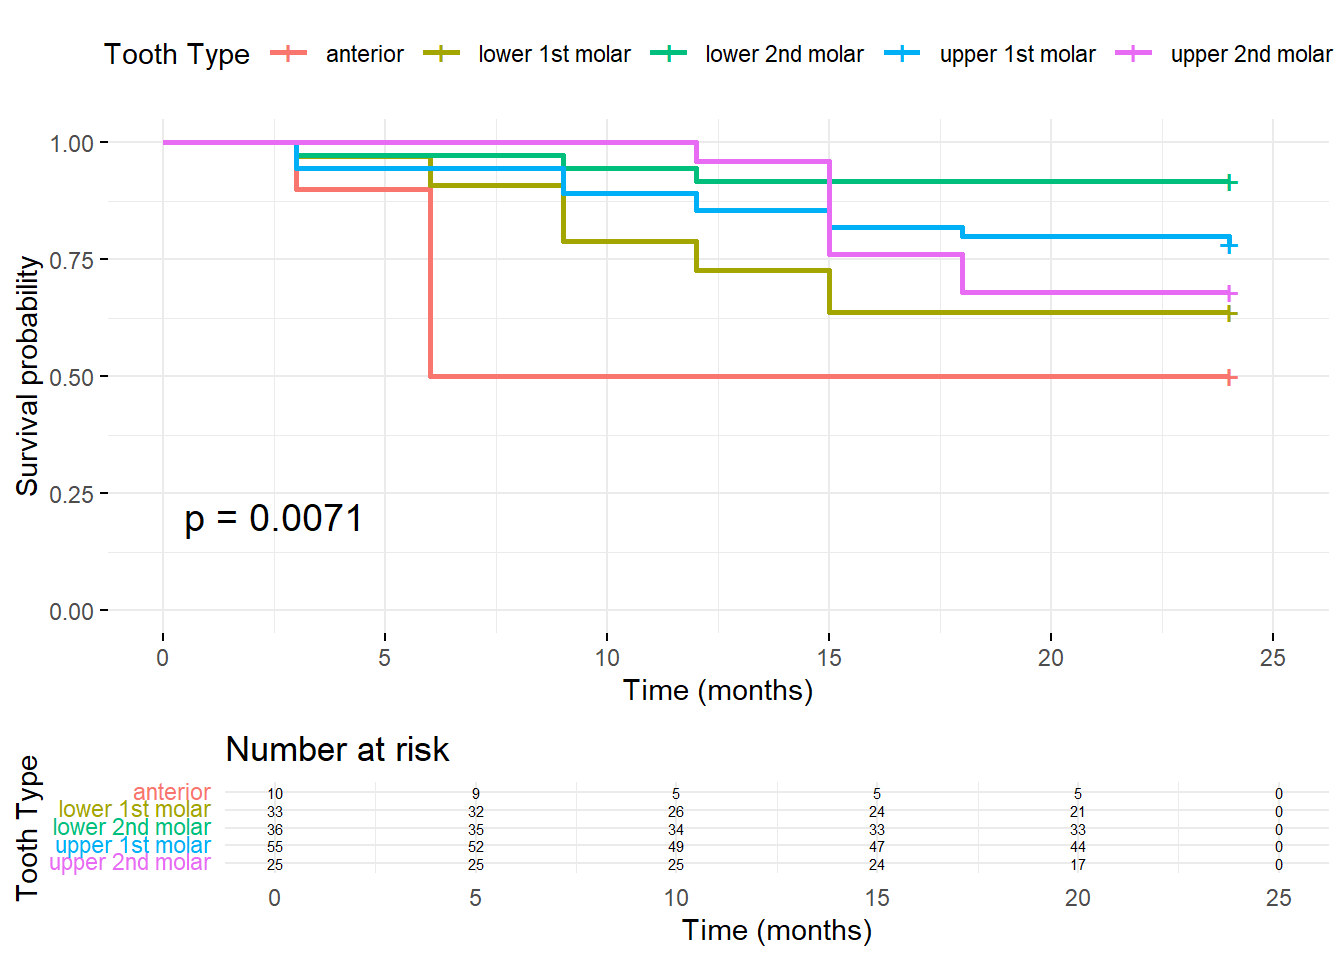
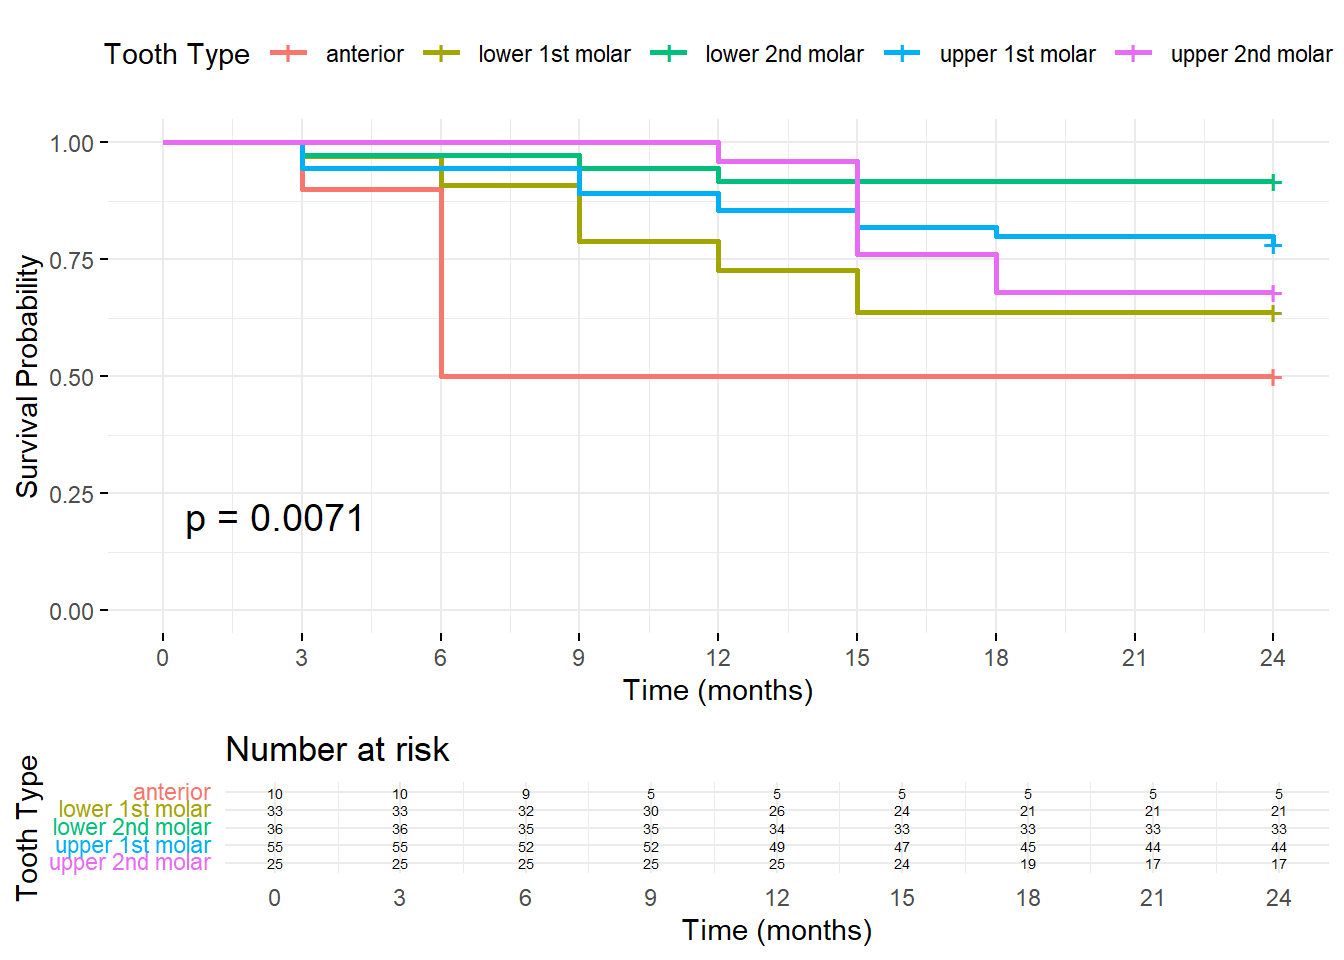
5/16/2025

diff --git a/docs/2025_0401_Matina.html b/docs/2025_0401_Matina.html
@@ -551,15 +551,15 @@ project makes it easier to run your code on other machines.</p>
 <div class="panel panel-default">
 <div class="panel-heading">
 <p class="panel-title">
-<a data-toggle="collapse" data-parent="#workflowr-checks" href="#strongRepositoryversionstrongahrefhttpsgithubcomhan16Collaborationstreef9ad2253412e91de654d370a24df924c286592f4targetblankf9ad225a">
+<a data-toggle="collapse" data-parent="#workflowr-checks" href="#strongRepositoryversionstrongahrefhttpsgithubcomhan16Collaborationstreee238306a1a1b560db2b302ea19c470e7430e14a0targetblanke238306a">
 <span class="glyphicon glyphicon-ok text-success"
 aria-hidden="true"></span> <strong>Repository version:</strong>
-<a href="https://github.com/han16/Collaborations/tree/f9ad2253412e91de654d370a24df924c286592f4" target="_blank">f9ad225</a>
+<a href="https://github.com/han16/Collaborations/tree/e238306a1a1b560db2b302ea19c470e7430e14a0" target="_blank">e238306</a>
 </a>
 </p>
 </div>
 <div
[2 lines of base64/hex data omitted]
 class="panel-collapse collapse">
 <div class="panel-body">
 <p>
@@ -569,7 +569,7 @@ reproducibility.
 </p>
 <p>
 The results in this page were generated with repository version
-<a href="https://github.com/han16/Collaborations/tree/f9ad2253412e91de654d370a24df924c286592f4" target="_blank">f9ad225</a>.
+<a href="https://github.com/han16/Collaborations/tree/e238306a1a1b560db2b302ea19c470e7430e14a0" target="_blank">e238306</a>.
 See the <em>Past versions</em> tab to see a history of the changes made
 to the R Markdown and HTML files.
 </p>
@@ -635,6 +635,40 @@ Message
 </tr>
 </thead>
 <tbody>
+<tr>
+<td>
+Rmd
+</td>
+<td>
+<a href="https://github.com/han16/Collaborations/blob/e238306a1a1b560db2b302ea19c470e7430e14a0/analysis/2025_0401_Matina.Rmd" target="_blank">e238306</a>
+</td>
+<td>
+han
+</td>
+<td>
+2025-05-16
+</td>
+<td>
+5/16/2025
+</td>
+</tr>
+<tr>
+<td>
+html
+</td>
+<td>
+<a href="https://rawcdn.githack.com/han16/Collaborations/e238306a1a1b560db2b302ea19c470e7430e14a0/docs/2025_0401_Matina.html" target="_blank">e238306</a>
+</td>
+<td>
+han
+</td>
+<td>
+2025-05-16
+</td>
+<td>
+5/16/2025
+</td>
+</tr>
 <tr>
 <td>
 Rmd
@@ -941,6 +975,17 @@ Date
 <tbody>
 <tr>
 <td>
+<a href="https://github.com/han16/Collaborations/blob/e238306a1a1b560db2b302ea19c470e7430e14a0/docs/figure/2025_0401_Matina.Rmd/unnamed-chunk-4-1.png" target="_blank">e238306</a>
+</td>
+<td>
+han
+</td>
+<td>
+2025-05-16
+</td>
+</tr>
+<tr>
+<td>
 <a href="https://github.com/han16/Collaborations/blob/6d5502474605eef9f308ba16b38b3692973b370c/docs/figure/2025_0401_Matina.Rmd/unnamed-chunk-4-1.png" target="_blank">6d55024</a>
 </td>
 <td>
@@ -985,6 +1030,43 @@ ggsurvplot(
   risk.table.height = 0.25
 )</code></pre>
 <p><img src="figure/2025_0401_Matina.Rmd/unnamed-chunk-5-1.png" width="672" style="display: block; margin: auto;" /></p>
+<p>
+<button type="button" class="btn btn-default btn-xs btn-workflowr btn-workflowr-fig" data-toggle="collapse" data-target="#fig-unnamed-chunk-5-1">
+Past versions of unnamed-chunk-5-1.png
+</button>
+</p>
+<div id="fig-unnamed-chunk-5-1" class="collapse">
+<div class="table-responsive">
+<table class="table table-condensed table-hover">
+<thead>
+<tr>
+<th>
+Version
+</th>
+<th>
+Author
+</th>
+<th>
+Date
+</th>
+</tr>
+</thead>
+<tbody>
+<tr>
+<td>
+<a href="https://github.com/han16/Collaborations/blob/e238306a1a1b560db2b302ea19c470e7430e14a0/docs/figure/2025_0401_Matina.Rmd/unnamed-chunk-5-1.png" target="_blank">e238306</a>
+</td>
+<td>
+han
+</td>
+<td>
+2025-05-16
+</td>
+</tr>
+</tbody>
+</table>
+</div>
+</div>
 <ul>
 <li>for outcome, treat <code>1</code> as success and failure otherwise,
 but in survival data, that’s the opposite, <code>1</code> denotes
@@ -1014,19 +1096,61 @@ surv_obj &lt;- Surv(time = SDF_data_tooth_type$Time, event = SDF_data_tooth_type
 # Step 2: Fit the survival curves by Tooth_Type
 fit &lt;- survfit(surv_obj ~ Tooth_Type, data = SDF_data_tooth_type)
 
-# Step 3: Plot with smaller font size in risk table
+# Step 3: Plot with risk table ticks at 0m, 3m, 6m, ..., 24m
 ggsurvplot(fit, data = SDF_data_tooth_type,
            pval = TRUE,
            risk.table = TRUE,
-           risk.table.fontsize = 2,  # &lt;-- adjust this number (default is ~4.5)
+           risk.table.fontsize = 1.8,
            legend.title = &quot;Tooth Type&quot;,
            legend.labs = levels(factor(SDF_data_tooth_type$Tooth_Type)),
            xlab = &quot;Time (months)&quot;,
-           ylab = &quot;Survival probability&quot;,
+           ylab = &quot;Survival Probability&quot;,
+           xlim = c(0, 24),                              # Include 0 to 24 months
+           break.time.by = 3,                            # Tick marks every 3 months
+           risk.table.breaks = seq(0, 24, 3),            # Risk table at 0, 3, 6, ..., 24
            ggtheme = theme_minimal())</code></pre>
-<p><img src="figure/2025_0401_Matina.Rmd/unnamed-chunk-7-1.png" width="672" style="display: block; margin: auto;" />
-* p value of 0.0054 indicates significant difference across tooth
-types</p>
+<p><img src="figure/2025_0401_Matina.Rmd/unnamed-chunk-7-1.png" width="672" style="display: block; margin: auto;" /></p>
+<p>
+<button type="button" class="btn btn-default btn-xs btn-workflowr btn-workflowr-fig" data-toggle="collapse" data-target="#fig-unnamed-chunk-7-1">
+Past versions of unnamed-chunk-7-1.png
+</button>
+</p>
+<div id="fig-unnamed-chunk-7-1" class="collapse">
+<div class="table-responsive">
+<table class="table table-condensed table-hover">
+<thead>
+<tr>
+<th>
+Version
+</th>
+<th>
+Author
+</th>
+<th>
+Date
+</th>
+</tr>
+</thead>
+<tbody>
+<tr>
+<td>
+<a href="https://github.com/han16/Collaborations/blob/e238306a1a1b560db2b302ea19c470e7430e14a0/docs/figure/2025_0401_Matina.Rmd/unnamed-chunk-7-1.png" target="_blank">e238306</a>
+</td>
+<td>
+han
+</td>
+<td>
+2025-05-16
+</td>
+</tr>
+</tbody>
+</table>
+</div>
+</div>
+<ul>
+<li>p value of 0.0071 indicates significant difference across tooth
+types</li>
+</ul>
 <div id="cox-proportional-hazard-models" class="section level3">
 <h3>cox proportional hazard models</h3>
 <pre class="r"><code>cox_model &lt;- coxph(Surv(Time, Event) ~ Tooth_Type, data = SDF_data_tooth_type)
@@ -1055,17 +1179,28 @@ Likelihood ratio test= 13.41  on 4 df,   p=0.009
 Wald test            = 11.92  on 4 df,   p=0.02
 Score (logrank) test = 14.17  on 4 df,   p=0.007</code></pre>
 <ul>
-<li><p>All molar types have significantly longer survival than anterior
-teeth. The hazard of failure is much lower for molars.</p></li>
-<li><p>Hazard Ratios (<code>exp(coef)</code>) &lt; 1 mean better
-survival</p></li>
-<li><p><code>Score (logrank) test = 12.5  on 4 df,   p=0.01</code>
-survival curves differ significantly across teeth types.</p></li>
-<li><p>Compared to anterior teeth, all molar types (lower 1st, lower
-2nd, upper 1st, upper 2nd) show significantly better survival, with
-hazard ratios ranging from 0.22 to 0.35. This means molars have a 65–78%
-lower risk of failure over time compared to anterior teeth.</p></li>
+<li><p>Lower 2nd molars and upper 1st molars have significantly better
+survival than anterior teeth.</p></li>
+<li><p>Hazard Ratios (HR) less than 1 indicate lower risk of
+failure.</p></li>
+<li><p>Lower 2nd molar (HR = 0.10) shows the strongest protective
+effect, with a 90% reduction in hazard compared to anterior
+teeth.</p></li>
+<li><p>The model is statistically significant overall (Likelihood ratio
+p = 0.009).</p></li>
 </ul>
+<pre class="r"><code># Fit Cox model again (if not already done)
+cox_fit &lt;- coxph(Surv(Time, Event) ~ Tooth_Type, data = SDF_data_tooth_type)
+
+# Create the forest plot
+ggforest(cox_fit,
+         data = SDF_data_tooth_type,
+         main = &quot;Hazard Ratios by Tooth Type&quot;,
+         cpositions = c(0.02, 0.22, 0.4),   # Adjust column spacing
+         fontsize = 1.0,                    # Adjust text size
+         refLabel = &quot;Anterior (Reference)&quot;,
+         noDigits = 2)</code></pre>
+<p><img src="figure/2025_0401_Matina.Rmd/unnamed-chunk-9-1.png" width="672" style="display: block; margin: auto;" /></p>
 </div>
 </div>
 <div id="full-model-including-all-covariates" class="section level2">
@@ -1086,35 +1221,51 @@ SSC                       -1.853e+01  8.940e-09  3.609e+03 -0.005 0.9959
 
 Likelihood ratio test=33.82  on 7 df, p=1.863e-05
 n= 159, number of events= 40 </code></pre>
-<p>Interpretation of Coefficients</p>
+<pre class="r"><code># Create the contingency table
+ssc_event_table &lt;- table(SDF_data_tooth_type$SSC, SDF_data_tooth_type$Event)
+
+# Assign row and column names
+rownames(ssc_event_table) &lt;- c(&quot;No SSC&quot;, &quot;SSC&quot;)
+colnames(ssc_event_table) &lt;- c(&quot;Failure (0)&quot;, &quot;Success (1)&quot;)
+
+# View the table
+ssc_event_table</code></pre>
+<pre><code>        
+         Failure (0) Success (1)
+  No SSC          95          40
+  SSC             24           0</code></pre>
+<p>👶 Age HR = 0.85, p = 0.039 ✅</p>
+<p>Interpretation: Each 1-unit increase in age (one month) is associated
+with a 15% decrease in hazard of failure</p>
+<p>Suggests older children may have better treatment survival</p>
+<p>🚻 Sex HR = 0.49, p = 0.042 ✅ male=1 ,, female=2</p>
 <ul>
-<li>Tooth_Type (Reference: anterior)</li>
+<li>Female teeth had a 51% lower hazard of failure compared to male
+teeth, and this difference is statistically significant.</li>
 </ul>
-<p>Compared to anterior teeth:</p>
-<p>Lower 1st molar: HR = 0.093 (p &lt; 0.001) → 91% lower hazard;
-significantly better survival.</p>
-<p>Lower 2nd molar: HR = 0.101 (p &lt; 0.001) → 90% lower hazard;
-significantly better survival.</p>
-<p>Upper 1st molar: HR = 0.153 (p &lt; 0.001) → 85% lower hazard;
-significantly better survival.</p>
-<p>Upper 2nd molar: HR = 0.083 (p &lt; 0.001) → 92% lower hazard;
-significantly better survival.</p>
-<ul>
-<li><p>Age: HR = 1.18 (p = 0.0015) → For every one-month increase in
-age, the hazard increases by 18%. Older patients tend to have worse
-survival.</p></li>
-<li><p>Sex: HR = 1.18 (p = 0.37) → Not statistically significant. There
-is no strong evidence that survival differs by sex.</p></li>
-<li><p>SSC (Reference: 0 = No SSC): HR = 1.72 (p = 0.039) → Teeth with
-SSC have a 72% higher hazard, indicating worse survival, and the result
-is statistically significant.</p></li>
-<li><p>Model Fit Statistics Likelihood ratio test: p = 0.0039</p></li>
-</ul>
-<p>Wald test: p = 0.0039</p>
-<p>Number of observations: 159</p>
-<p>Number of events: 119</p>
-<p>The model fit is statistically significant, suggesting that at least
-one predictor is significantly associated with survival.</p>
+<p>🦷 SSC (Stainless Steel Crown) HR ≈ 0, p = 0.996 ❌</p>
+<p>Interpretation: No association between SSC placement and outcome in
+this model. Also, the standard error is huge (3609), suggesting possible
+data imbalance or collinearity (e.g., almost all with SSC succeeded or
+failed).</p>
+<p>✅ Summary Age and Sex are significant predictors of treatment
+survival.</p>
+<p>Tooth type loses significance after adjustment, except a marginal
+trend for lower 2nd molars.</p>
+<p>SSC variable is problematic — investigate its coding or data
+variability.</p>
+<p>Model is statistically significant as a whole (p &lt; 0.001),
+indicating good overall explanatory power.</p>
+<pre class="r"><code># Fit the Cox model
+cox_fit &lt;- coxph(Surv(Time, Event) ~ Tooth_Type + Age + Sex + SSC, data = SDF_data_tooth_type)
+
+# Generate forest plot
+ggforest(cox_fit,
+         data = SDF_data_tooth_type,
+         main = &quot;Forest Plot of Cox Model&quot;,
+         fontsize = 1.0,                 # Adjust font size
+         refLabel = &quot;Anterior (ref)&quot;,    # Label reference level
+         noDigits = 2)                   # Round numbers to 2 decimal places</code></pre>
 <br>
 <p>
 <button type="button" class="btn btn-default btn-workflowr btn-workflowr-sessioninfo" data-toggle="collapse" data-target="#workflowr-sessioninfo" style="display: block;">
